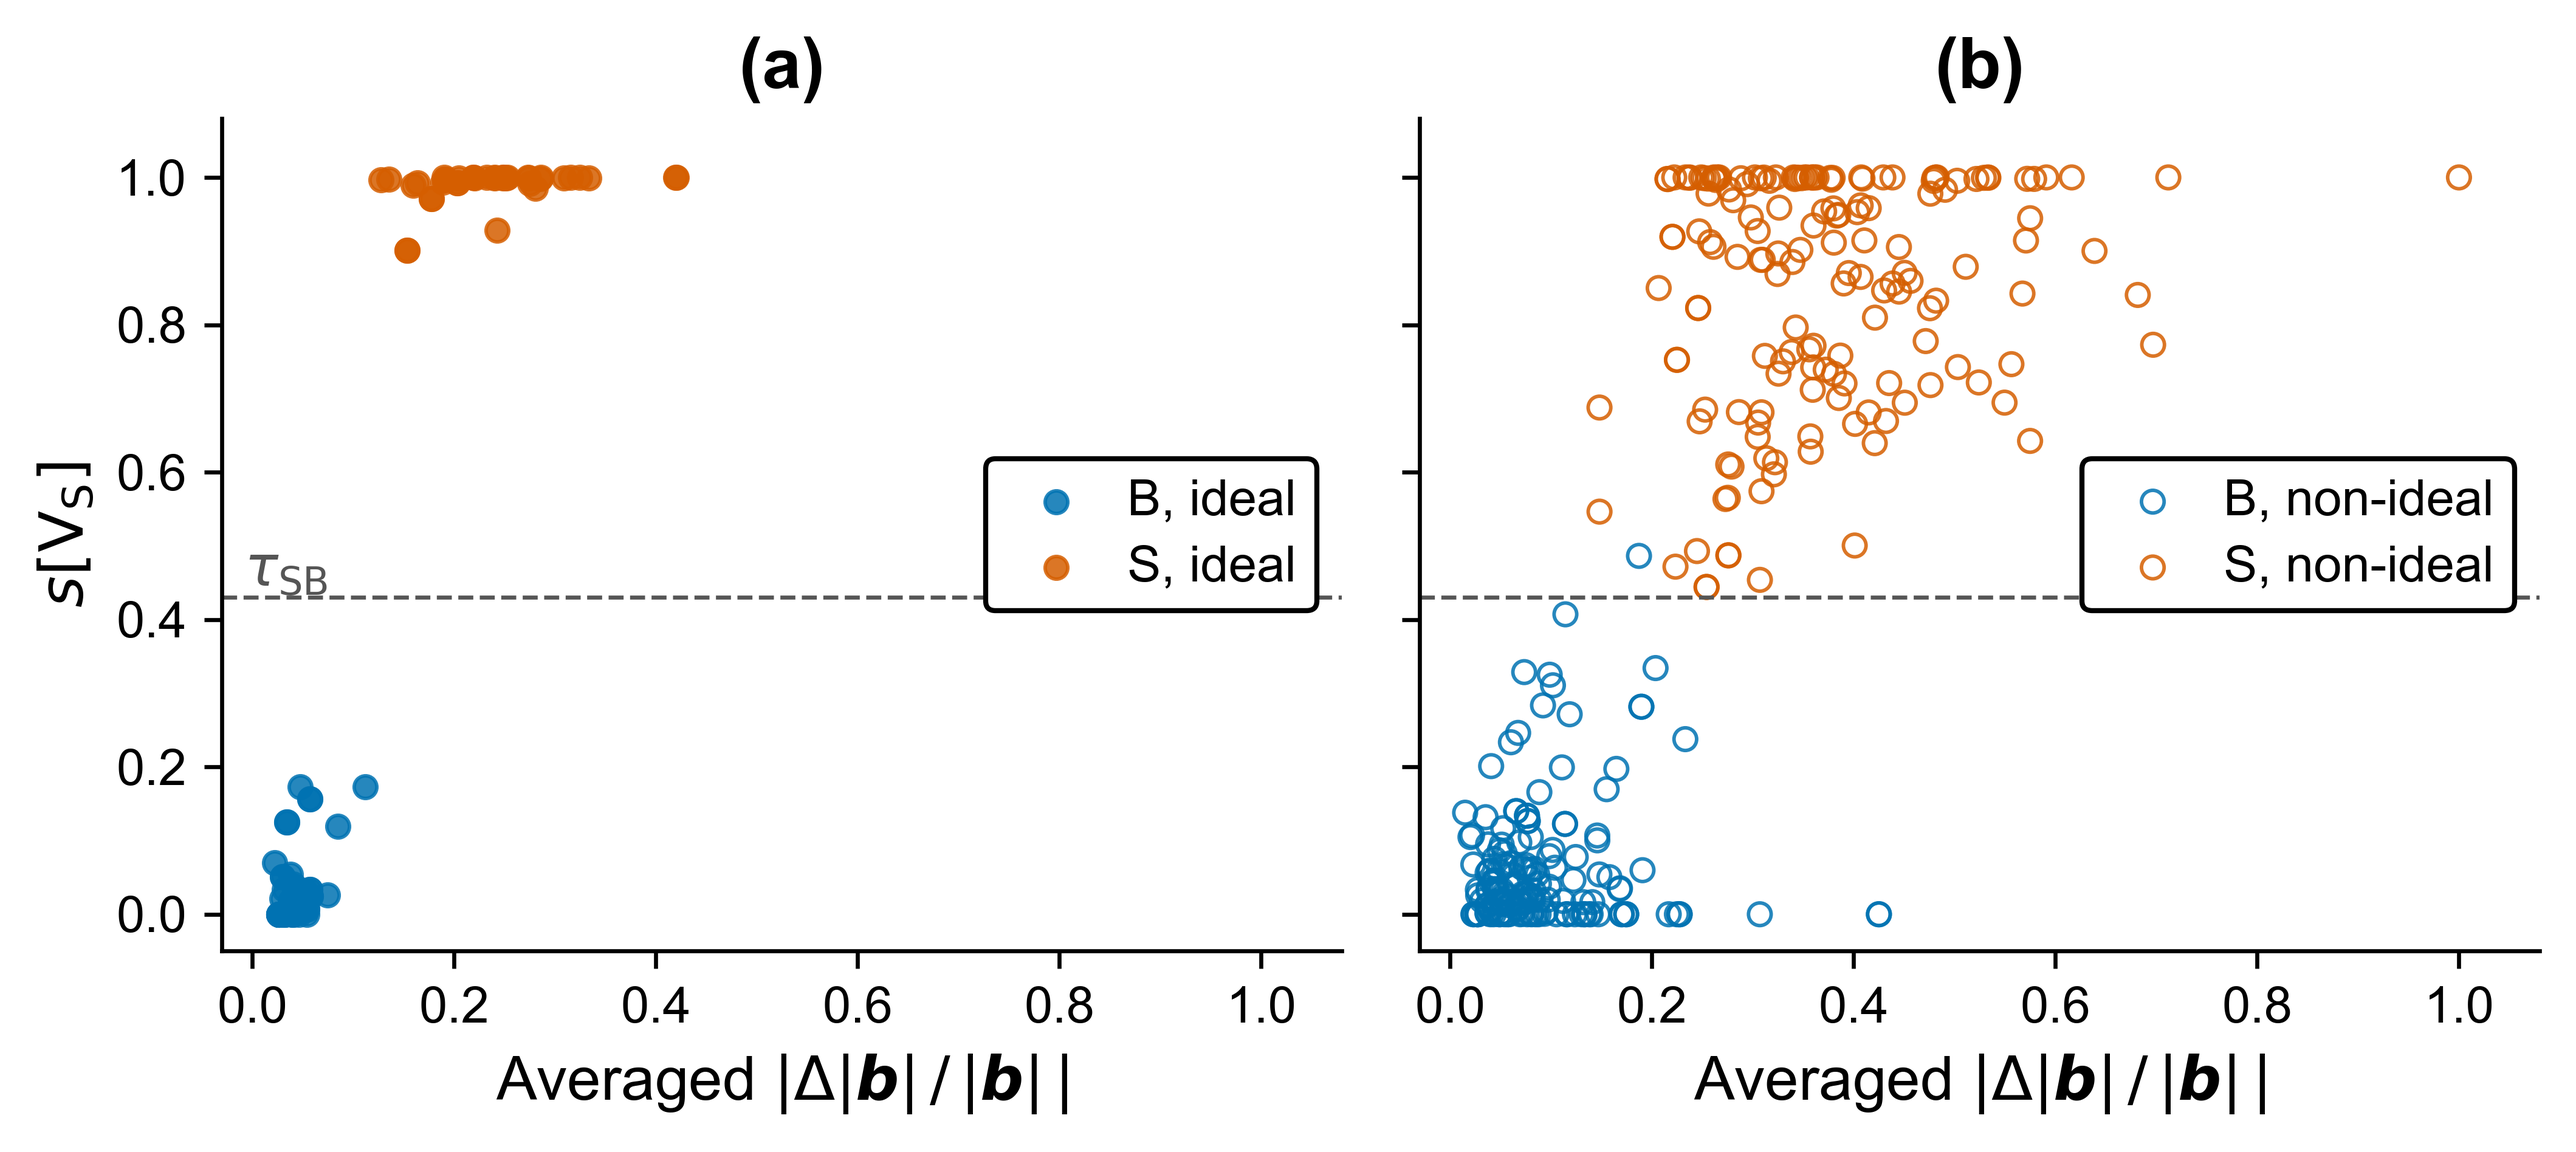
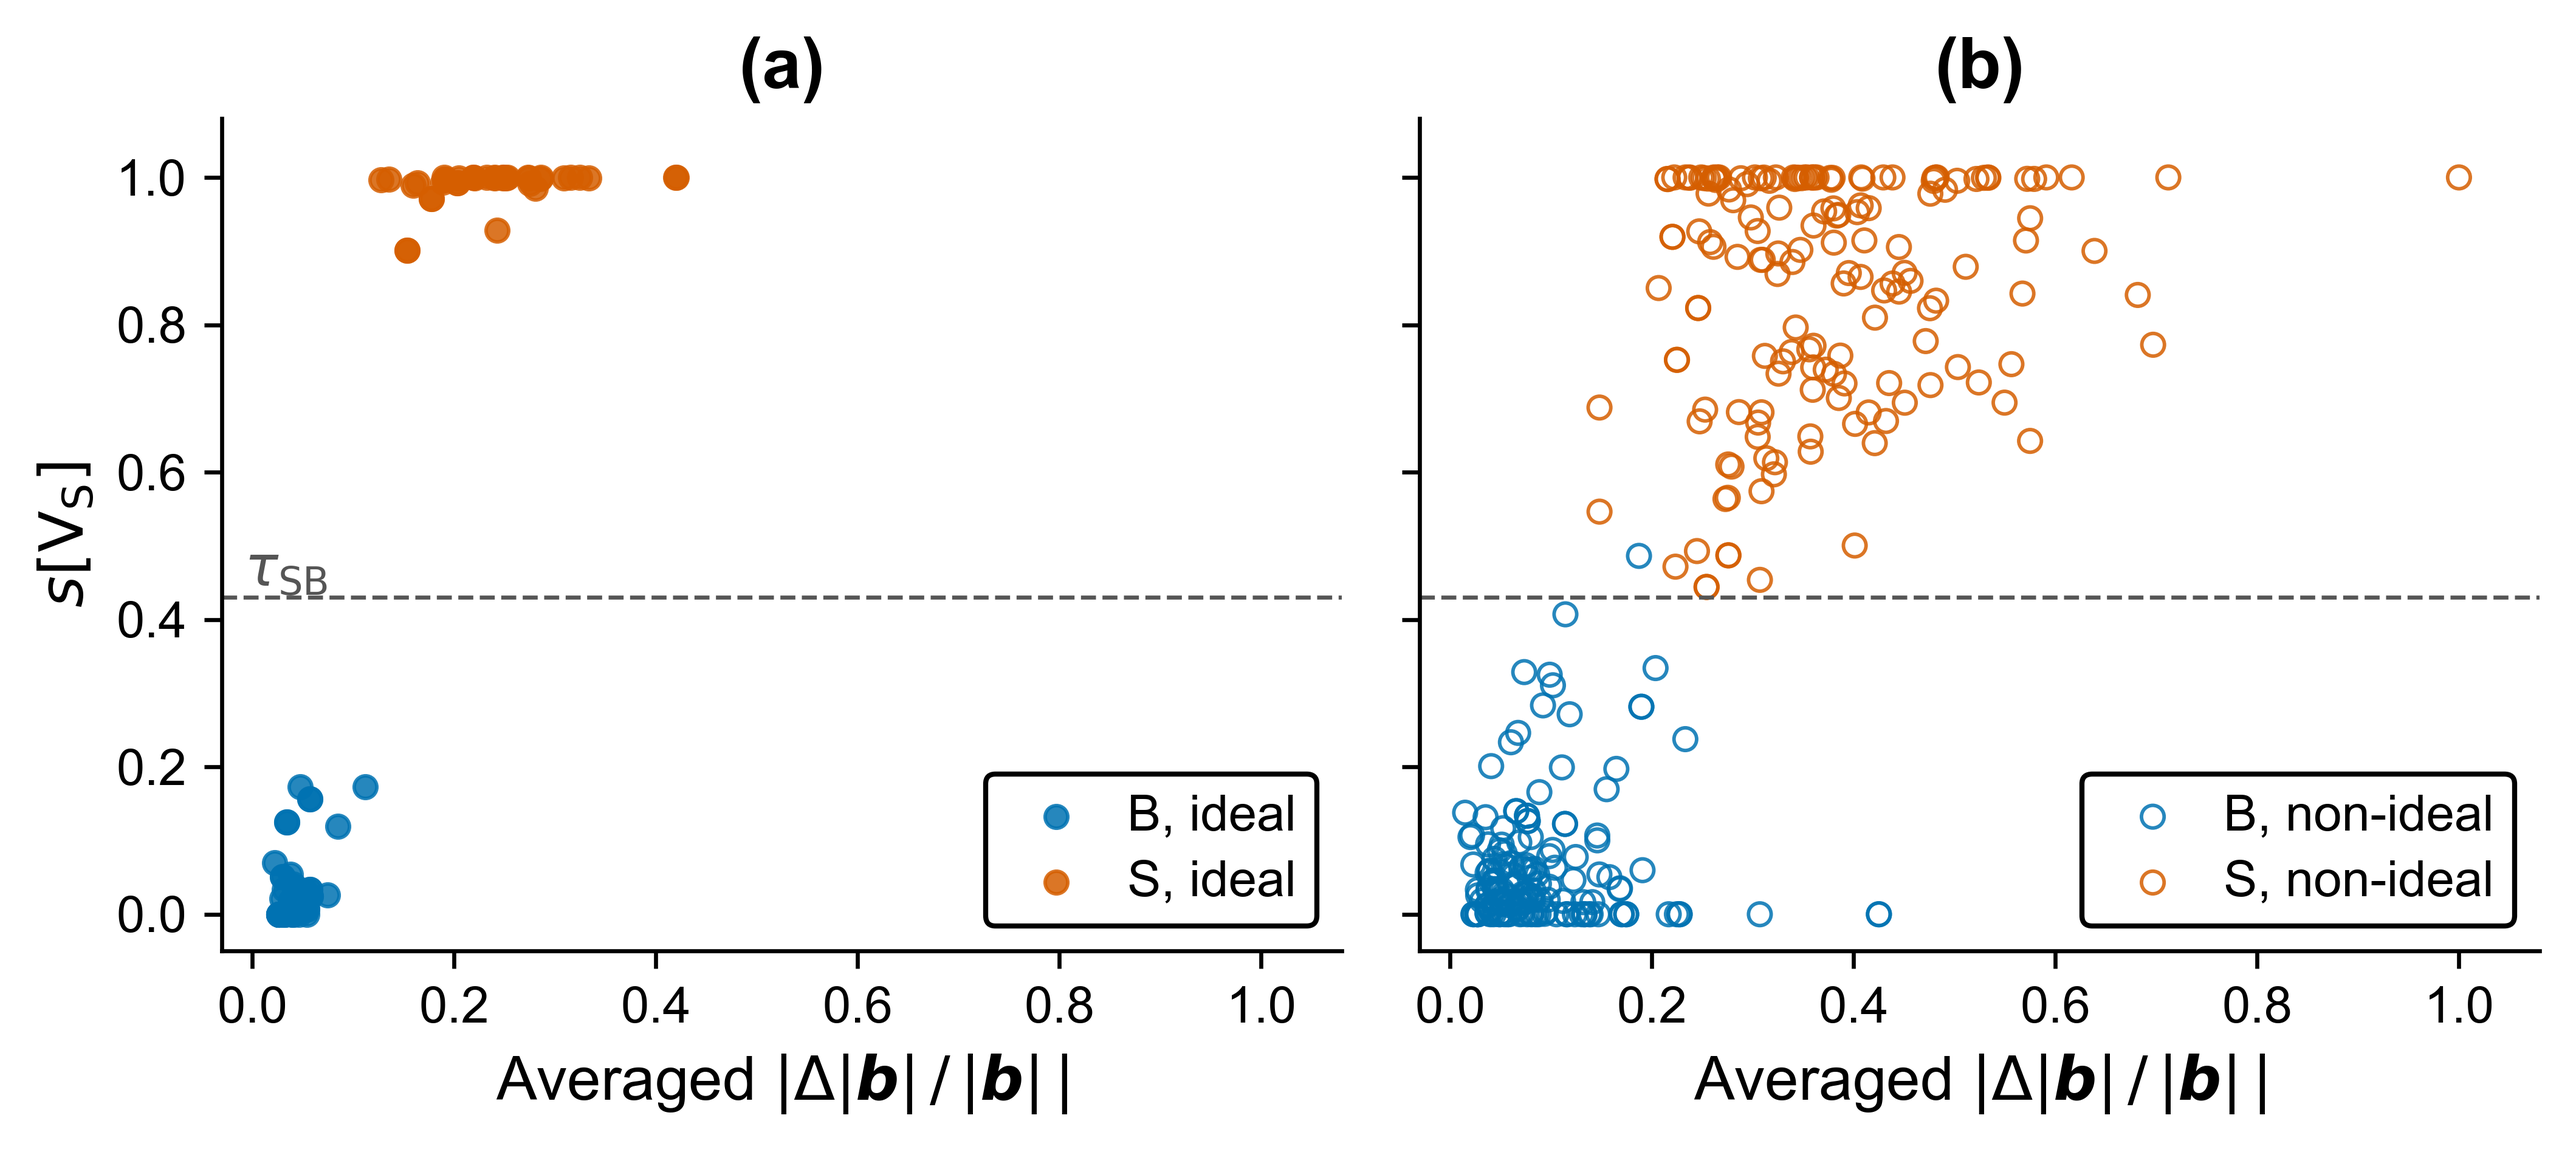
fig_modemixing: legends to lower right, clear of the tau_SB line

diff --git a/src/figures.py b/src/figures.py
@@ -2250,16 +2250,15 @@ def plot_mode_mixing(
 
     ax_i.set_ylabel(r"$s[\mathrm{V_S}]$")
     ax_i.set_ylim(-0.05, 1.08)
-    # Bordered legends: both panels' legend boxes sit on top of scattered
-    # data points, so a frame + opaque face keep swatches from reading as
-    # more data (unlike every other legend in this module, frameon=False).
-    ax_i.legend(loc="center right", frameon=True, edgecolor="black",
-                facecolor="white", framealpha=1.0,
-                handletextpad=0.4, labelspacing=0.4)
-    ax_n.legend(loc="center right", frameon=True, edgecolor="black",
-                facecolor="white", framealpha=1.0,
-                handletextpad=0.4, labelspacing=0.4)
-    # Left side, clear of the "center right" legend.
+    # Legends in the empty lower-right corner (below tau_SB, right of the
+    # bending cluster) so they never cross the threshold line; the space
+    # between legend and line is left free for hand-added mode depictions
+    # in the manuscript copy. Bordered so swatches don't read as data.
+    for ax in (ax_i, ax_n):
+        ax.legend(loc="lower right", frameon=True, edgecolor="black",
+                  facecolor="white", framealpha=1.0,
+                  handletextpad=0.4, labelspacing=0.4)
+    # Left side, clear of the lower-right legend.
     ax_i.text(0.02, th.tau_SB, r"$\tau_{\mathrm{SB}}$", ha="left", va="bottom",
               color=COLORS["threshold"], transform=ax_i.get_yaxis_transform())
 
